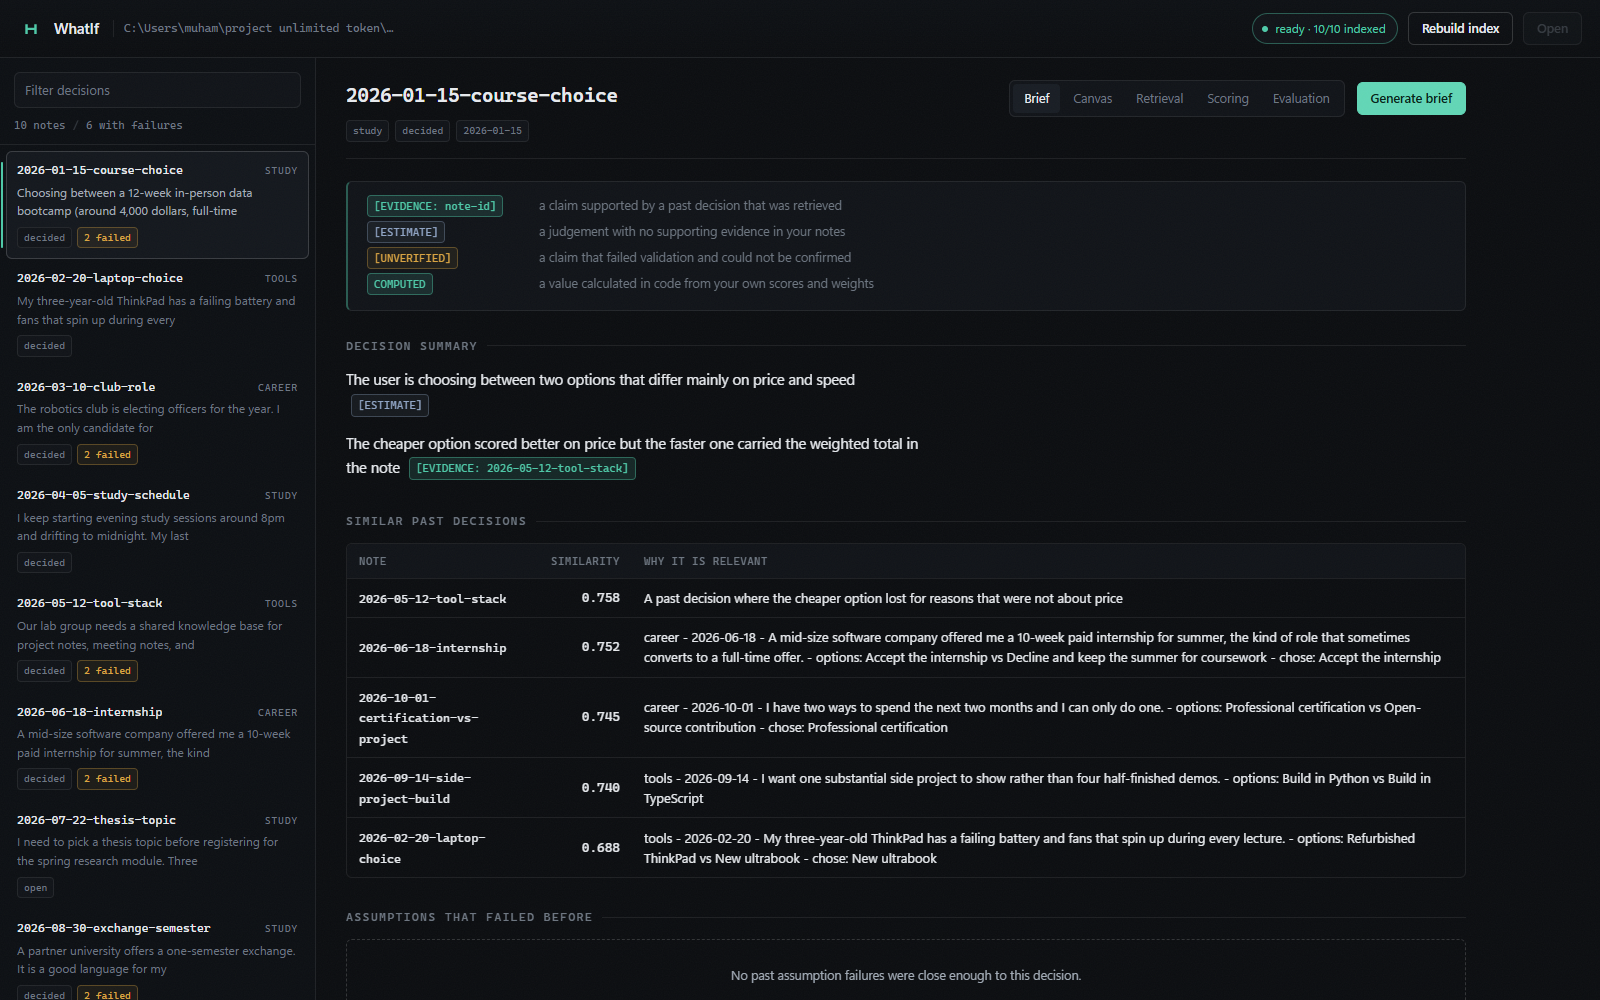
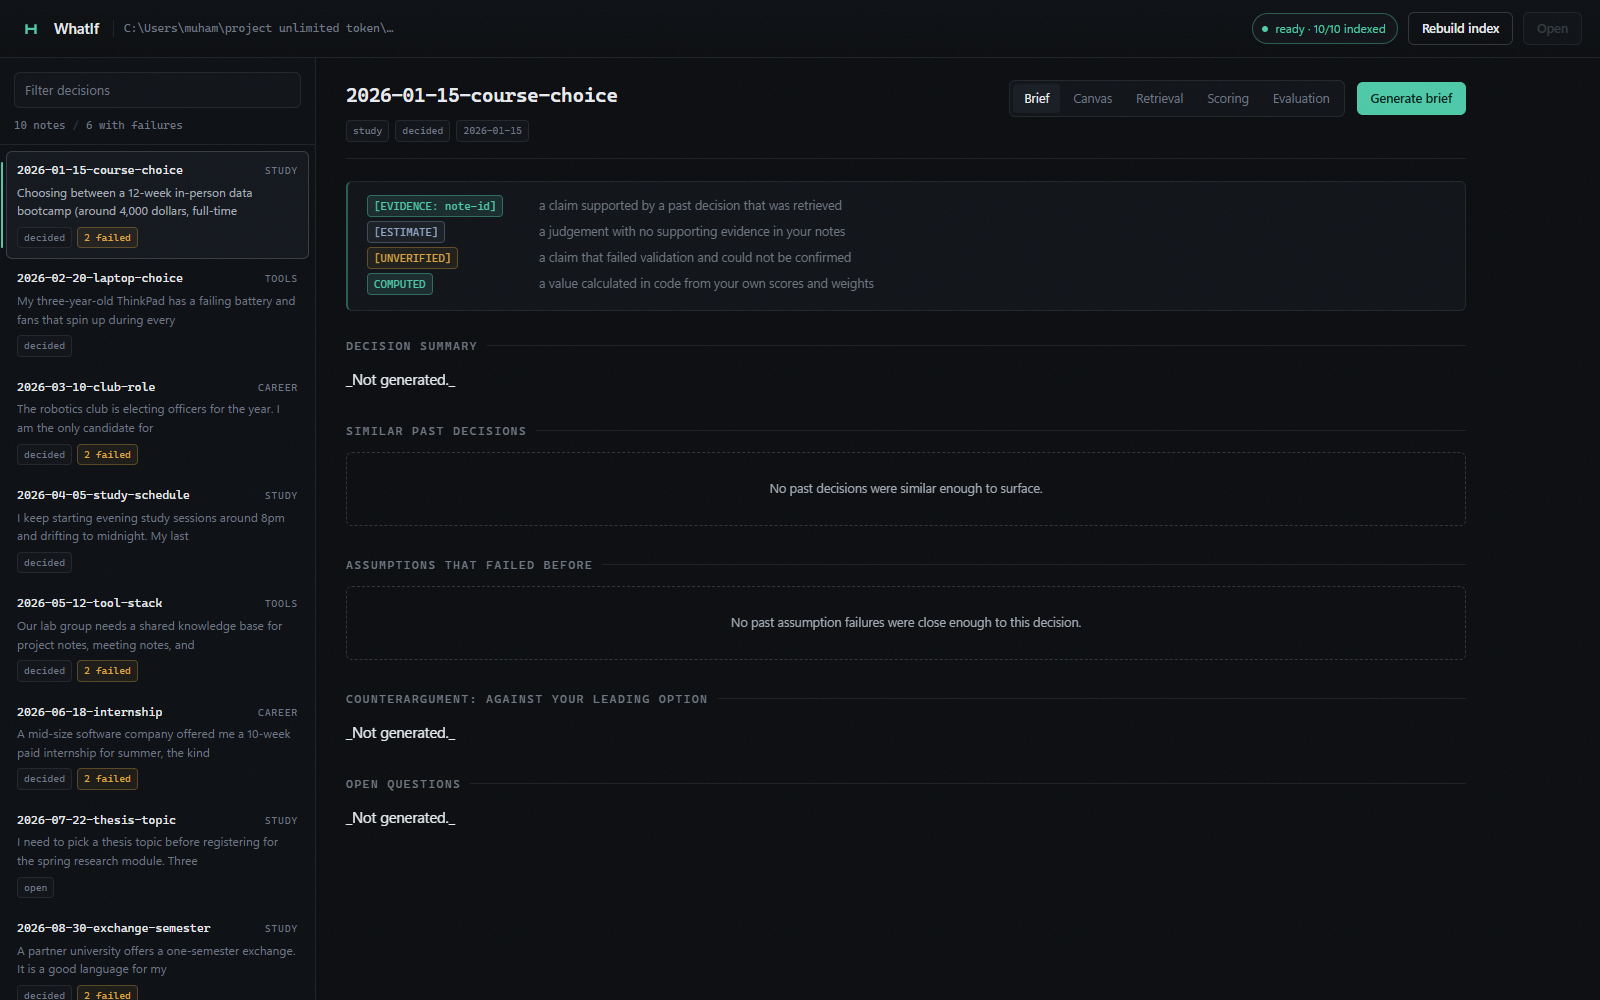
Add a one-command demo launcher
python scripts/demo.py starts the stand-in Ollama server, indexes the vault
and serves the web interface, detecting an already running Ollama so it does
not start a second one.

diff --git a/scripts/demo.py b/scripts/demo.py
@@ -1,0 +1,152 @@
+"""Start the whole demo in one command.
+
+    python scripts/demo.py [--port 8765]
+
+Starts the stand-in Ollama server (unless a real one is already answering) and
+the WhatIf web interface, then waits until you press Ctrl+C.
+
+If you have real Ollama running on port 11434, point whatif.toml at it and use
+`whatif serve` on its own instead; this script will detect the running server
+and leave it alone.
+"""
+
+from __future__ import annotations
+
+import argparse
+import json
+import socket
+import subprocess
+import sys
+import threading
+import time
+import urllib.error
+import urllib.request
+from pathlib import Path
+
+sys.path.insert(0, str(Path(__file__).resolve().parent.parent))
+
+DEMO_CONFIG = "whatif.demo.toml"
+OLLAMA_PORT = 11434
+
+
+def port_is_open(host: str, port: int, timeout: float = 0.4) -> bool:
+    """Return True if something is listening on the port."""
+    try:
+        with socket.create_connection((host, port), timeout=timeout):
+            return True
+    except OSError:
+        return False
+
+
+def ollama_answers(port: int) -> bool:
+    """Return True if the port speaks the Ollama API."""
+    try:
+        with urllib.request.urlopen(
+            f"http://localhost:{port}/api/tags", timeout=1.5
+        ) as response:
+            return response.status == 200
+    except (urllib.error.URLError, OSError, TimeoutError):
+        return False
+
+
+def wait_for(url: str, timeout: float = 15.0) -> bool:
+    """Poll a URL until it answers."""
+    deadline = time.time() + timeout
+    while time.time() < deadline:
+        try:
+            with urllib.request.urlopen(url, timeout=1.5) as response:
+                if response.status == 200:
+                    return True
+        except (urllib.error.URLError, OSError, TimeoutError):
+            time.sleep(0.25)
+    return False
+
+
+def main() -> int:
+    parser = argparse.ArgumentParser(description="Run the WhatIf demo locally.")
+    parser.add_argument("--port", type=int, default=8765, help="Port for the web interface")
+    parser.add_argument(
+        "--config",
+        default=DEMO_CONFIG,
+        help=f"Config file to use (default: {DEMO_CONFIG})",
+    )
+    args = parser.parse_args()
+
+    root = Path(__file__).resolve().parent.parent
+    config_path = root / args.config
+    if not config_path.exists():
+        print(f"Config not found: {config_path}", file=sys.stderr)
+        return 1
+
+    standin: subprocess.Popen[bytes] | None = None
+
+    if ollama_answers(OLLAMA_PORT):
+        print(f"Using the Ollama server already running on port {OLLAMA_PORT}.")
+    else:
+        print(f"Starting the stand-in Ollama server on port {OLLAMA_PORT}...")
+        standin = subprocess.Popen(
+            [sys.executable, str(root / "scripts" / "fake_ollama.py"), str(OLLAMA_PORT)],
+            cwd=str(root),
+        )
+        if not wait_for(f"http://localhost:{OLLAMA_PORT}/api/tags"):
+            print("The stand-in server did not come up.", file=sys.stderr)
+            if standin:
+                standin.terminate()
+            return 1
+
+    # Make sure the vault is indexed before anyone opens the page.
+    print("Indexing the vault...")
+    index = subprocess.run(
+        [sys.executable, "-m", "whatif.cli", "index", "--config", str(config_path)],
+        cwd=str(root),
+        capture_output=True,
+        text=True,
+    )
+    for line in index.stdout.splitlines():
+        if "Indexed" in line:
+            print(f"  {line.strip()}")
+    if index.returncode != 0:
+        print(index.stderr.strip()[:400], file=sys.stderr)
+
+    url = f"http://127.0.0.1:{args.port}"
+    print()
+    print(f"  WhatIf is running at  {url}")
+    print("  Press Ctrl+C to stop.")
+    print()
+
+    server = subprocess.Popen(
+        [
+            sys.executable,
+            "-m",
+            "whatif.cli",
+            "serve",
+            "--config",
+            str(config_path),
+            "--port",
+            str(args.port),
+        ],
+        cwd=str(root),
+    )
+
+    try:
+        server.wait()
+    except KeyboardInterrupt:
+        print("\nStopping.")
+    finally:
+        if server.poll() is None:
+            server.terminate()
+            try:
+                server.wait(timeout=5)
+            except subprocess.TimeoutExpired:
+                server.kill()
+        if standin:
+            standin.terminate()
+            try:
+                standin.wait(timeout=5)
+            except subprocess.TimeoutExpired:
+                standin.kill()
+    return 0
+
+
+if __name__ == "__main__":
+    sys.exit(main())
